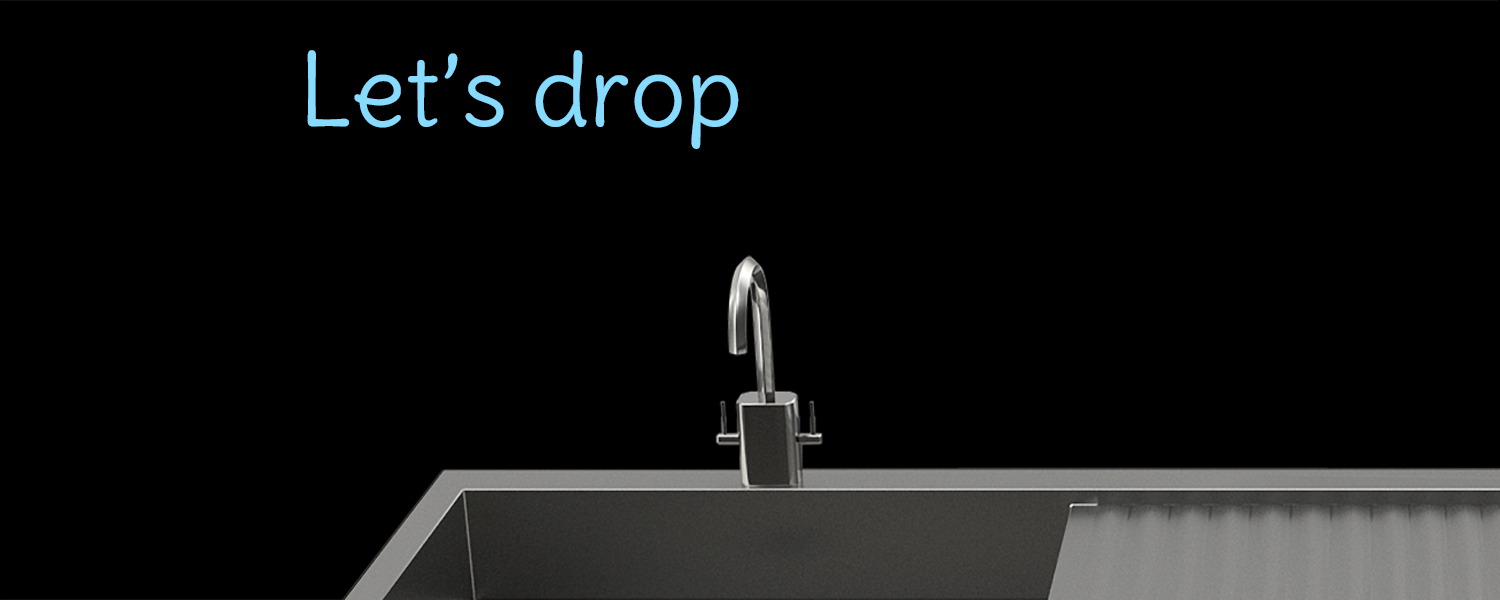
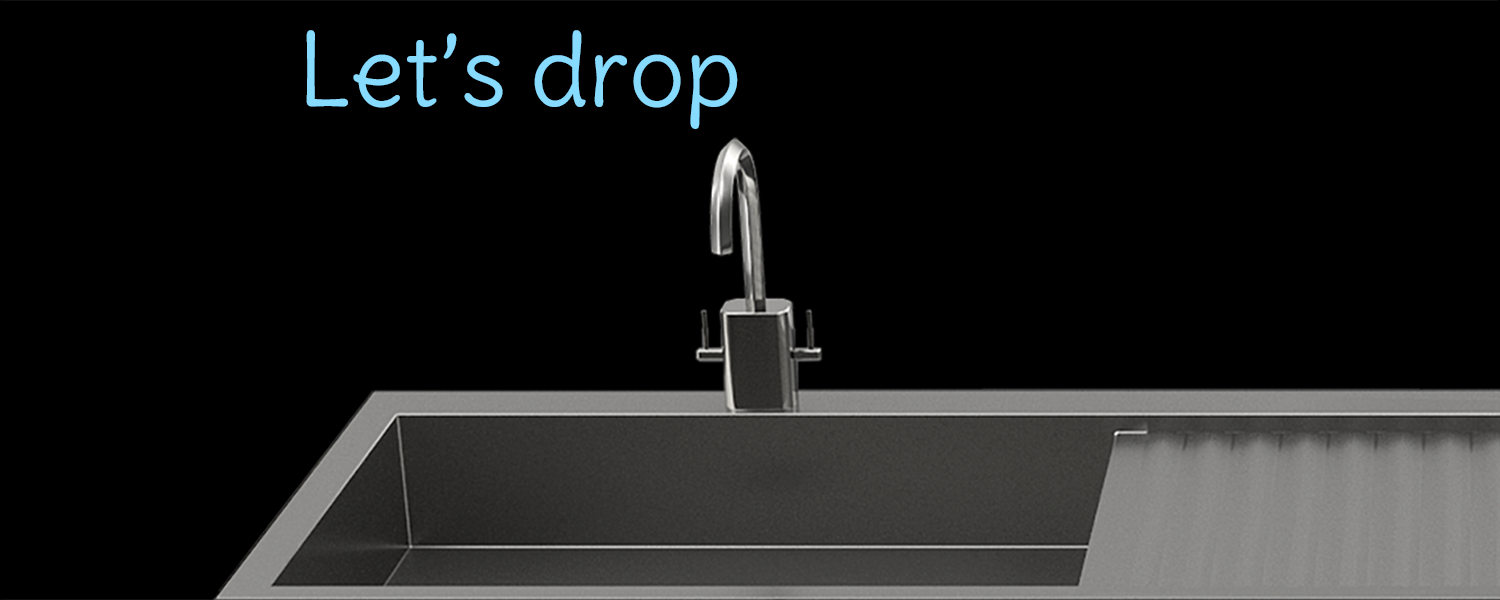
dragNdrop in progress ; class variable problem

Changed region(s): [[0.1227, 0.06, 1.0, 1.0], [0.184, 0.06, 0.2147, 0.09]]

diff --git a/ressources/js/Level0/level0.js b/ressources/js/Level0/level0.js
@@ -1,27 +1,141 @@
 class Level0{
-    static createLevel(thisGame){
-        thisGame.level = 0;
-        document.getElementById('bg').style.backgroundImage = "url('/ressources/images/game/Level0/Level0.png')";
-        thisGame.gameObjects = [
-            new StartButton(thisGame.context) // used to test level change TODO: delete after drag and drop implement
-        ];
 
-        // used to test level change
-        thisGame.canvas.addEventListener('click', (event) => {
+    
+
+    static createLevel(thisGame){
+
+        thisGame.level = 0;
+        
+        // Background to start with
+        document.getElementById('bg').style.backgroundImage = "url('/ressources/images/game/Level0/Level0.png')";
+
+        // Droppies
+        let drop1 = document.createElement('img');
+        drop1.src = "/ressources/images/game/DropSize1blue.png";
+        drop1.style.position = 'absolute';
+        drop1.style.left = "440px" ;
+        drop1.style.top = "355px" ;
+        drop1.setAttribute('draggable', true);
+        drop1.ondragstart = function(e) {
+            this.style.opacity = '0';
+            //thisGame.dropSize = 1;
+        };
+        drop1.ondragend = function(e) {
+            this.style.opacity = '0';
+            thisGame.ready = true;
+            
+            //this.launchGame(thisGame, dropSize);
+        };
+        document.getElementById('bg').appendChild(drop1);
+        
+        let drop2 = document.createElement('img');
+        drop2.src = "/ressources/images/game/DropSize2blue.png";
+        drop2.style.position = 'absolute';
+        drop2.style.left = "490px" ;
+        drop2.style.top = "366px" ;
+        drop2.setAttribute('draggable', true);
+        document.getElementById('bg').appendChild(drop2);
+        
+        let drop3 = document.createElement('img');
+        drop3.src = "/ressources/images/game/DropSize3blue.png";
+        drop3.style.position = 'absolute';
+        drop3.style.left = "532px" ;
+        drop3.style.top = "374px" ;
+        drop3.setAttribute('draggable', true);
+        document.getElementById('bg').appendChild(drop3);
+
+        let drop4 = document.createElement('img');
+        drop4.src = "/ressources/images/game/DropSize4blue.png";
+        drop4.style.position = 'absolute';
+        drop4.style.left = "568px" ;
+        drop4.style.top = "382px" ;
+        drop4.setAttribute('draggable', true);
+        document.getElementById('bg').appendChild(drop4);
+        
+        
+        //DropZone
+        let dropzone = document.getElementById("dropzone");
+        dropzone.ondragover = function(e) {
+            e.preventDefault();
+        };
+        dropzone.ondrop = function(e) {
+            drop1.style.opacity = '0';
+            drop2.style.opacity = '0';
+            drop3.style.opacity = '0';
+            drop4.style.opacity = '0';
+        };
+
+        thisGame.droppy = new Drop(thisGame.context, 0, 148, 1, "blue");
+        
+        
+
+        /*function dragElement(elmnt) {
+            var pos1 = 0, pos2 = 0, pos3 = 0, pos4 = 0;
+            document.getElementById(elmnt.id).onmousedown = dragMouseDown;
+          
+            function dragMouseDown(e) {
+              e = e || window.event;
+              e.preventDefault();
+              // get the mouse cursor position at startup:
+              pos3 = e.clientX;
+              pos4 = e.clientY;
+              document.onmouseup = closeDragElement;
+              // call a function whenever the cursor moves:
+              document.onmousemove = elementDrag;
+            }
+          
+            function elementDrag(e) {
+              e = e || window.event;
+              e.preventDefault();
+              // calculate the new cursor position:
+              pos1 = pos3 - e.clientX;
+              pos2 = pos4 - e.clientY;
+              pos3 = e.clientX;
+              pos4 = e.clientY;
+              // set the element's new position:
+              elmnt.style.top = (elmnt.offsetTop - pos2) + "px";
+              elmnt.style.left = (elmnt.offsetLeft - pos1) + "px";
+            }
+          
+            function closeDragElement() {
+              // stop moving when mouse button is released:
+              document.onmouseup = null;
+              document.onmousemove = null;
+            }
+          }*/
+
+        /*thisGame.canvas.addEventListener('click', (event) => {
             if (
                 // size of margin left + postion x in canva of start button
-                event.x > canvas.offsetLeft + 300 &&
-                // size of margin left + with of start button + width of start button
-                event.x < canvas.offsetLeft + 300 + 110 && 
+                event.x > canvas.offsetLeft + 150 &&
+                // size of margin left + width of start button + width of start button
+                event.x < canvas.offsetLeft + 150 + 690 && 
                 // position y in canva of start button
-                event.y > 480 && 
+                event.y > 415 && 
                 // position y in canva of start button + height
-                event.y < 480 + 50
+                event.y < 415 + 135
             ) {
                 thisGame.ready = true;
             }
-        });
+        });*/
 
-        thisGame.droppy = new Drop(thisGame.context, 0, 148, 4, "blue");
+                
+        
+        /*thisGame.gameObjects = [
+            new DropZone(thisGame.context)
+            //new StartButton(thisGame.context) // used to test level change TODO: delete after drag and drop implement
+        ];*/
+
+
+        // used to test level change
+        
+
+        
+        
+    }
+
+    launchGame(thisGame, dropSize) {
+        thisGame.ready = true;
+        thisGame.droppy = new Drop(thisGame.context, 0, 148, dropSize, "blue");
     }
 }

diff --git a/ressources/css/game.css b/ressources/css/game.css
@@ -22,8 +22,19 @@ body, html {
     max-width: 1500px;
     min-height: 600px;
     max-height: 600px;
+    position: relative;
   }
-  
+
+  #dropzone {
+    /*border-style: solid;
+    border-width: 1px;
+    border-color: red;*/
+    height: 135px;
+    width: 690px;
+    position: fixed;
+    top: 415px;
+    left: 588px;
+  }
 
 canvas {
     padding: 0;

diff --git a/letsDrop.html b/letsDrop.html
@@ -12,6 +12,9 @@
             Your browser does not support the HTML5 canvas tag.
             </canvas>
         </div>
+        <div id="dropzone">
+            
+        </div>
         <script src="ressources/js/game.js"></script>
         <script src="ressources/js/Level0/startButton.js"></script>
         <!--CHARACTERS-->

diff --git a/ressources/js/Level0/startButton.js b/ressources/js/Level0/startButton.js
@@ -15,7 +15,7 @@ class StartButton
 
         //Text in button
         this.context.fillStyle = 'white';
-        this.context.fillText('Start', this.x + 10, this.y + (this.height/2) + 10);
+        this.context.fillText('Start', this.x + 10, this.y + (this.height/2) + 14);
     }
 
     update(secondsPassed){

diff --git a/ressources/js/game.js b/ressources/js/game.js
@@ -9,6 +9,8 @@ class Game {
         this.isWin = false;
         this.levelName = null;
         this.timer = null;
+        this.dropSize = 0 ;
+        this.ready = false ;
 
         // Object
         this.droppy = null;
